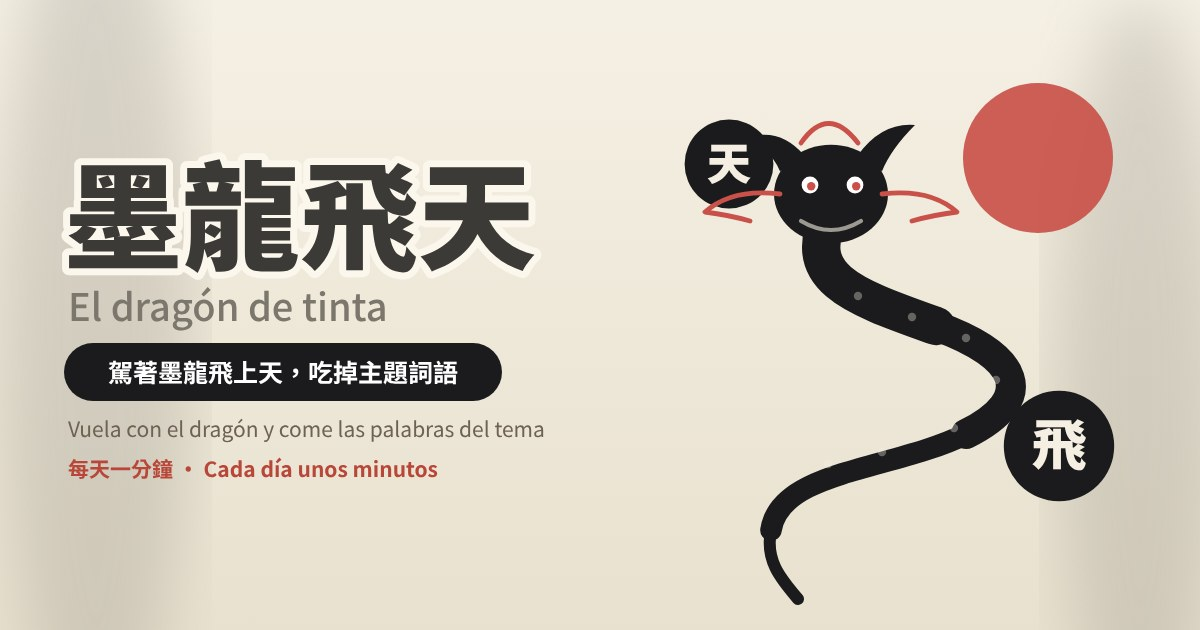
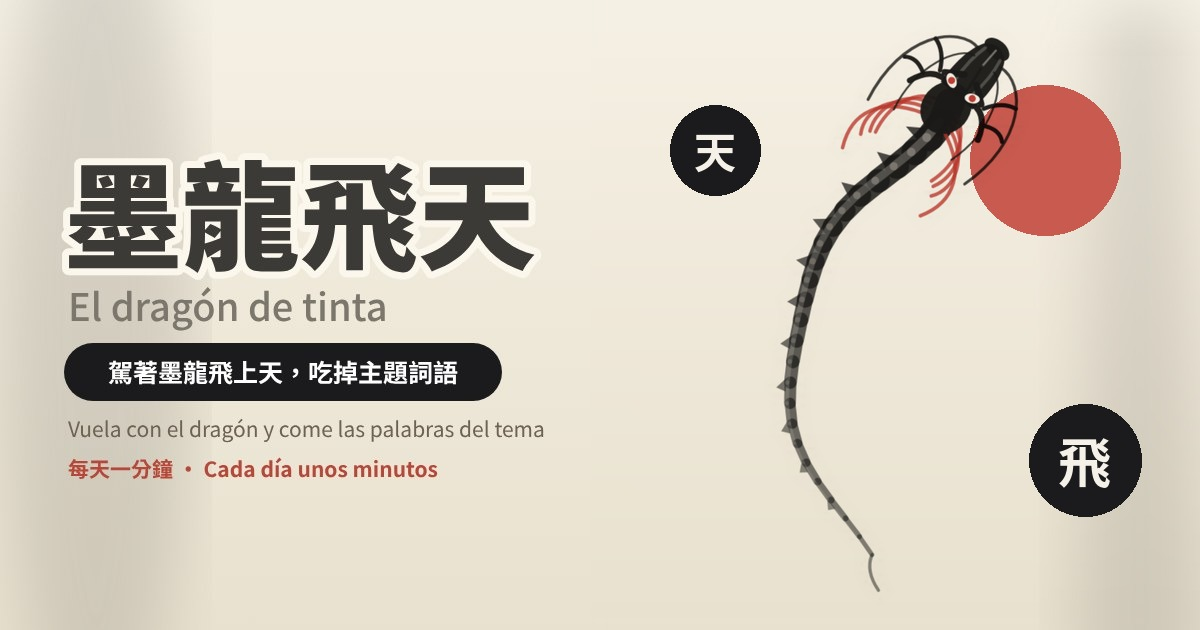
連結預覽縮圖 og.jpg 換成遊戲裡真正的龍，og:image 版本號改為 20261120
Claude-Session: https://claude.ai/code/session_01VBTS7n5J3aSwhYPJJacgNA

diff --git a/index.html b/index.html
@@ -134,7 +134,7 @@ a.btn{text-decoration:none}
 <meta property="og:title" content="墨龍飛天 · El dragón de tinta">
 <meta property="og:description" content="駕著墨龍飛上天，吃掉主題詞語 · Vuela con el dragón y come las palabras del tema">
 <meta property="og:url" content="https://wangchiapin.github.io/el-dragon-de-tinta/">
-<meta property="og:image" content="https://wangchiapin.github.io/el-dragon-de-tinta/og.jpg?v=20261029">
+<meta property="og:image" content="https://wangchiapin.github.io/el-dragon-de-tinta/og.jpg?v=20261120">
 <meta property="og:image:width" content="1200"><meta property="og:image:height" content="630">
 <meta name="twitter:card" content="summary_large_image">
 <meta name="description" content="駕著墨龍飛上天，吃掉主題詞語 · Vuela con el dragón y come las palabras del tema">
